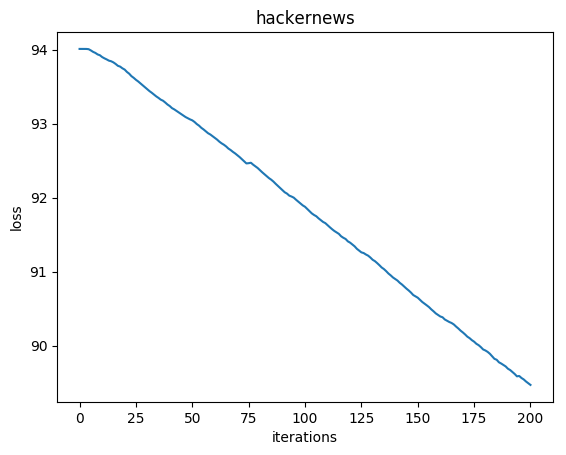
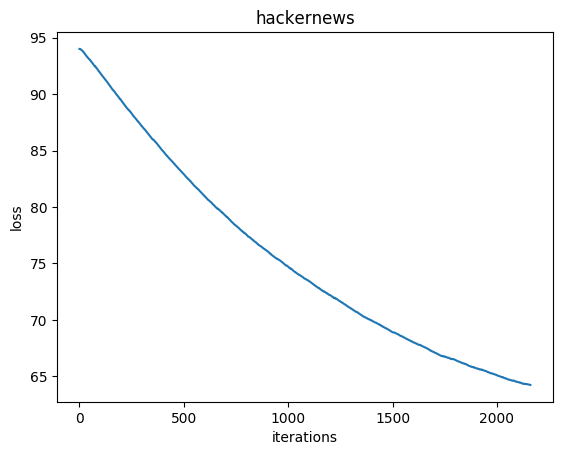
checkpoint
Former-commit-id: d1ee33db4f80174b923ad792eca74dabc6567536

diff --git a/text_predictor2.py b/text_predictor2.py
@@ -34,7 +34,7 @@ output_file.close()
 # Hyperparameters
 HIDDEN_LAYER_SIZE = 512
 SEQUENCE_LENGTH = 20
-LEARNING_RATE = 1e-1
+LEARNING_RATE = 0.001
 ADAGRAD_UPDATE_RATE = 1e-8
 LOGGING_FREQUENCY = 10
 TEXT_SAMPLING_FREQUENCY = 1000
@@ -43,26 +43,40 @@ RANDOM_WEIGHT_INIT_FACTOR = 1e-2
 LOSS_SMOOTHING_FACTOR = 0.999
 TEXT_SAMPLE_LENGTH = 200
 
-class RNNlayer(object):
 
-    def __init__(self, x_size, h_size, y_size, learning_rate):
+class RNNLayerModel:
+
+    def __init__(self, random_init=False):
+        self.input_to_hidden = (np.random.randn(HIDDEN_LAYER_SIZE, vocabulary_size) * RANDOM_WEIGHT_INIT_FACTOR) if random_init else np.zeros((HIDDEN_LAYER_SIZE, vocabulary_size))
+        self.hidden_to_hidden = (np.random.randn(HIDDEN_LAYER_SIZE, HIDDEN_LAYER_SIZE) * RANDOM_WEIGHT_INIT_FACTOR) if random_init else np.zeros((HIDDEN_LAYER_SIZE, HIDDEN_LAYER_SIZE))
+        self.hidden_to_output = (np.random.randn(vocabulary_size, HIDDEN_LAYER_SIZE) * RANDOM_WEIGHT_INIT_FACTOR) if random_init else np.zeros((vocabulary_size, HIDDEN_LAYER_SIZE))
+        self.hidden_bias = np.zeros((HIDDEN_LAYER_SIZE, 1))
+        self.output_bias = np.zeros((vocabulary_size, 1))
+
+    def __iter__(self):
+        return iter([self.input_to_hidden, self.hidden_to_hidden, self.hidden_to_output, self.hidden_bias, self.output_bias])
+
+
+class RNNLayer:
+
+    def __init__(self, x_size, h_size, y_size):
         self.h_size = h_size
-        self.learning_rate = learning_rate#ugh, nightmares
 
-        #inputs and internal states for each layer, used during backpropagation
         self.x = {}
         self.h = {}
         self.h_last = np.zeros((h_size, 1))
 
-        #x is the input. h is the internal hidden stuff. y is the output.
-        self.W_xh = np.random.randn(h_size, x_size)*0.01#x -> h
-        self.W_hh = np.random.randn(h_size, h_size)*0.01#h -> h
-        self.W_hy = np.random.randn(y_size, h_size)*0.01#h -> y
-        self.b_h = np.zeros((h_size, 1))#biases
+        self.base = RNNLayerModel(random_init=True)
+        self.memory = RNNLayerModel()
+        self.gradient = RNNLayerModel()
+
+        self.W_xh = np.random.randn(h_size, x_size)*RANDOM_WEIGHT_INIT_FACTOR
+        self.W_hh = np.random.randn(h_size, h_size)*RANDOM_WEIGHT_INIT_FACTOR
+        self.W_hy = np.random.randn(y_size, h_size)*RANDOM_WEIGHT_INIT_FACTOR
+        self.b_h = np.zeros((h_size, 1))
         self.b_y = np.zeros((y_size, 1))
 
-        #the Adagrad gradient update relies upon having a memory of the sum of squares of dparams
-        self.adaW_xh = np.zeros((h_size, x_size))#start sums at 0
+        self.adaW_xh = np.zeros((h_size, x_size))
         self.adaW_hh = np.zeros((h_size, h_size))
         self.adaW_hy = np.zeros((y_size, h_size))
         self.adab_h = np.zeros((h_size, 1))
@@ -143,39 +157,24 @@ class RNNlayer(object):
 
         #clip to mitigate exploding gradients
         for dparam in [dW_xh, dW_hh, dW_hy, db_h, db_y]:
-            dparam = np.clip(dparam, -5, 5)
+            dparam = np.clip(dparam, -GRADIENT_LIMIT, GRADIENT_LIMIT)
         for t in range(len(dx)):
-            dx[t] = np.clip(dx[t], -5, 5)
+            dx[t] = np.clip(dx[t], -GRADIENT_LIMIT, GRADIENT_LIMIT)
 
-        #update RNN parameters according to Adagrad
-        #yes, it calls by reference, so the actual things do get updated
         for param, dparam, adaparam in zip([self.W_hh, self.W_xh, self.W_hy, self.b_h, self.b_y], \
-                    [dW_hh, dW_xh, dW_hy, db_h, db_y], \
-                    [self.adaW_hh, self.adaW_xh, self.adaW_hy, self.adab_h, self.adab_y]):
+                                            [dW_hh, dW_xh, dW_hy, db_h, db_y], \
+                                            [self.adaW_hh, self.adaW_xh, self.adaW_hy, self.adab_h, self.adab_y]):
             adaparam += dparam*dparam
-            param += -self.learning_rate*dparam/np.sqrt(adaparam+1e-8)
+            param += -LEARNING_RATE*dparam/np.sqrt(adaparam+ADAGRAD_UPDATE_RATE)
 
         return dx
 
-def test():
-    # #open a text file
-    # data = open('data/shakespeare/input.txt', 'r').read() # should be simple plain text file
-    # chars = list(set(data))
-    # data_size, vocab_size = len(data), len(chars)
-    # print 'data has %d characters, %d unique.' % (data_size, vocab_size)
-    #
-    # #make some dictionaries for encoding and decoding from 1-of-k
-    # char_to_ix = { ch:i for i,ch in enumerate(chars) }
-    # ix_to_char = { i:ch for i,ch in enumerate(chars) }
+def rnn():
+    rnn1 = RNNLayer(vocabulary_size, HIDDEN_LAYER_SIZE, HIDDEN_LAYER_SIZE)
+    rnn2 = RNNLayer(HIDDEN_LAYER_SIZE, HIDDEN_LAYER_SIZE, HIDDEN_LAYER_SIZE)
+    rnn3 = RNNLayer(HIDDEN_LAYER_SIZE, HIDDEN_LAYER_SIZE, vocabulary_size)
 
-    #num_hid_layers = 3, insize and outsize are len(chars). hidsize is 512 for all layers. learning_rate is 0.1.
-    rnn1 = RNNlayer(len(chars), 512, 512, 0.001)
-    rnn2 = RNNlayer(512, 512, 512, 0.001)
-    rnn3 = RNNlayer(512, 512, len(chars), 0.001)
-
-    #iterate over batches of input and target output
-
-    smooth_loss = None#-np.log(1.0/len(chars))*seq_length#loss at iteration 0
+    smooth_loss = None
     smooth_error = None
     smooth_losses = []
     smooth_errors = []
@@ -187,23 +186,16 @@ def test():
     while True:
         if data_pointer + SEQUENCE_LENGTH + 1 >= len(input_data) or iteration == 0:
             resets += 1
-            #hidden_previous = np.zeros((HIDDEN_LAYER_SIZE, 1))
             data_pointer = 0
             print('{{"metric": "reset", "value": {}}}'.format(resets))
         inputs = [char_to_index[char] for char in input_data[data_pointer:data_pointer + SEQUENCE_LENGTH]]
         targets = [char_to_index[char] for char in input_data[data_pointer + 1:data_pointer + SEQUENCE_LENGTH + 1]]
 
         if iteration % TEXT_SAMPLING_FREQUENCY == 0:
-            sample_ix = sample([rnn1, rnn2, rnn3], inputs[0], 200, len(chars))
-            text = ''.join([index_to_char[n] for n in sample_ix])
-            output_file = open(output_dir, "a")
-            output_file.write("Iteration: " + str(iteration) + "\n")
-            output_file.write(text + "\n")
-            output_file.write("\n")
-            output_file.close()
+            sample_text([rnn1, rnn2, rnn3], inputs[0], iteration)
 
-        # forward pass
-        x = oneofk(inputs, len(chars))
+        # Forward pass
+        x = one_of_k(inputs, len(chars))
         y1, p1 = rnn1.step(x)
         y2, p2 = rnn2.step(y1)
         y3, p3 = rnn3.step(y2)
@@ -226,7 +218,7 @@ def test():
             print('{{"metric": "smooth_loss", "value": {}}}'.format(smooth_loss))
             print('{{"metric": "smooth_error", "value": {}}}'.format(smooth_error))
 
-        # backward pass
+        # Backward pass
         dy = logprobs(p3, targets)
         dx3 = rnn3.backprop(dy)
         dx2 = rnn2.backprop(dx3)
@@ -234,48 +226,6 @@ def test():
 
         data_pointer += SEQUENCE_LENGTH
         iteration += 1
-
-
-    # for j in range(2000):
-    #     print "============== j = ",j," =================="
-    #     for i in range(len(input_data)/(seq_length*50)):
-    #         inputs = [char_to_index[c] for c in input_data[i*seq_length:(i+1)*seq_length]]#inputs to the RNN
-    #         targets = [char_to_index[c] for c in input_data[i*seq_length+1:(i+1)*seq_length+1]]#the targets it should be outputting
-    #
-    #         if i % TEXT_SAMPLING_FREQUENCY==0:
-    #             sample_ix = sample([rnn1, rnn2, rnn3], inputs[0], 200, len(chars))
-    #             text = ''.join([index_to_char[n] for n in sample_ix])
-    #             output_file = open(output_dir, "a")
-    #             output_file.write("Iteration: " + str(iteration) + "\n")
-    #             output_file.write(text + "\n")
-    #             output_file.write("\n")
-    #             output_file.close()
-    #             losses.append(smooth_loss)
-    #
-    #         #forward pass
-    #         x = oneofk(inputs, len(chars))
-    #         y1, p1 = rnn1.step(x)
-    #         y2, p2 = rnn2.step(y1)
-    #         y3, p3 = rnn3.step(y2)
-    #
-    #         #calculate loss and error rate
-    #         loss = 0
-    #         error = 0
-    #         for t in range(len(targets)):
-    #             loss += -np.log(p3[t][targets[t],0])
-    #             if np.argmax(p3[t]) != targets[t]:
-    #                 error += 1
-    #         smooth_loss = smooth_loss*0.999 + loss*0.001
-    #         smooth_error = smooth_error*0.999 + error*0.001
-    #
-    #         if i%10==0:
-    #             print i,"\tsmooth loss =",smooth_loss,"\tsmooth error rate =",float(smooth_error)/len(targets)
-    #
-    #         #backward pass
-    #         dy = logprobs(p3, targets)
-    #         dx3 = rnn3.backprop(dy)
-    #         dx2 = rnn2.backprop(dx3)
-    #         dx1 = rnn1.backprop(dx2)
 
 
 def plot(data, y_label):
@@ -286,41 +236,37 @@ def plot(data, y_label):
     plt.savefig(dir + "/" + y_label + ".png", bbox_inches="tight")
     plt.close()
 
-#let the RNN generate text
-def sample(rnns, seed, n, k):
-
-    ndxs = []
-    ndx = seed
-
-    for t in range(n):
-        x = oneofk([ndx], k)
+def sample_text(rnns, seed, iteration):
+    indices = []
+    index = seed
+    for t in range(TEXT_SAMPLE_LENGTH):
+        x = one_of_k([index], vocabulary_size)
         for i in range(len(rnns)):
             x, p = rnns[i].step(x)
+        index = np.random.choice(range(len(p[0])), p=p[0].ravel())
+        indices.append(index)
 
-        ndx = np.random.choice(range(len(p[0])), p=p[0].ravel())
-        ndxs.append(ndx)
+    text = ''.join([index_to_char[n] for n in indices])
+    output_file = open(output_dir, "a")
+    output_file.write("Iteration: " + str(iteration) + "\n")
+    output_file.write(text + "\n")
+    output_file.write("\n")
+    output_file.close()
 
-    return ndxs
-
-#I have these out here because it's not really the RNN's concern how you transform
-#things to a form it can understand
-
-#get the initial dy to pass back through the first layer
 def logprobs(p, targets):
     dy = {}
     for t in range(len(targets)):
-        #see http://cs231n.github.io/neural-networks-case-study/#grad if confused here
         dy[t] = np.copy(p[t])
         dy[t][targets[t]] -= 1
     return dy
 
-#encode inputs in 1-of-k so they match inputs between layers
-def oneofk(inputs, k):
+def one_of_k(inputs, k):
     x = {}
     for t in range(len(inputs)):
-        x[t] = np.zeros((k, 1))#initialize x input to 1st hidden layer
-        x[t][inputs[t]] = 1#it's encoded in 1-of-k representation
+        x[t] = np.zeros((k, 1))
+        x[t][inputs[t]] = 1
     return x
 
+
 if __name__ == "__main__":
-    test()
+    rnn()
